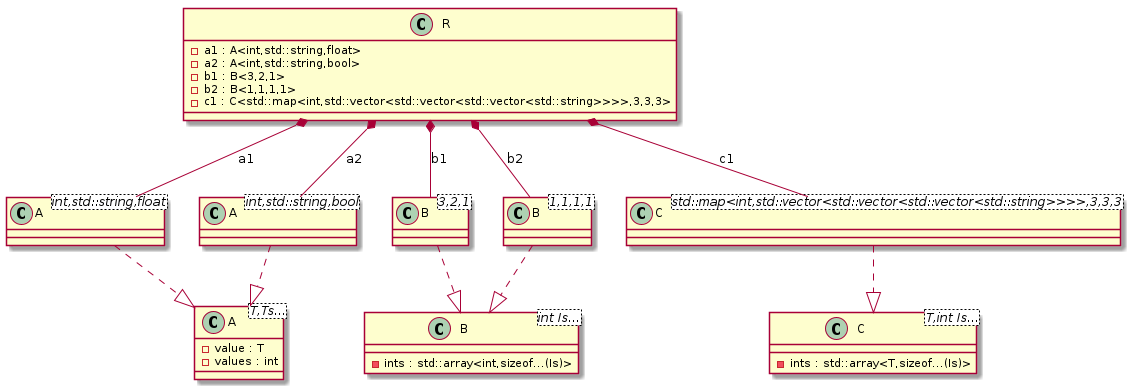
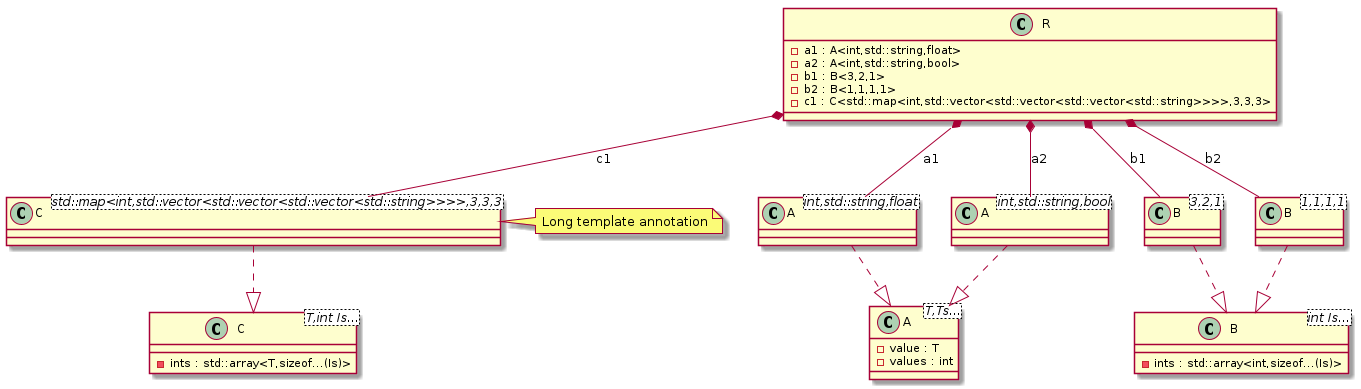
Updated test cases documentation

diff --git a/docs/test_cases/t00012.md b/docs/test_cases/t00012.md
@@ -13,6 +13,9 @@ diagrams:
     include:
       namespaces:
         - clanguml::t00012
+    plantuml:
+      after:
+        - 'note right of @A(C<std::map<int,std::vector<std::vector<std::vector<std::string>>>>,3,3,3>) : Long template annotation'
 
 ```
 ## Source code

diff --git a/docs/test_cases/t00002.md b/docs/test_cases/t00002.md
@@ -13,6 +13,9 @@ diagrams:
     include:
       namespaces:
         - clanguml::t00002
+    plantuml:
+      after:
+        - 'note left of @A(A) : Base abstract interface.'
 
 ```
 ## Source code
